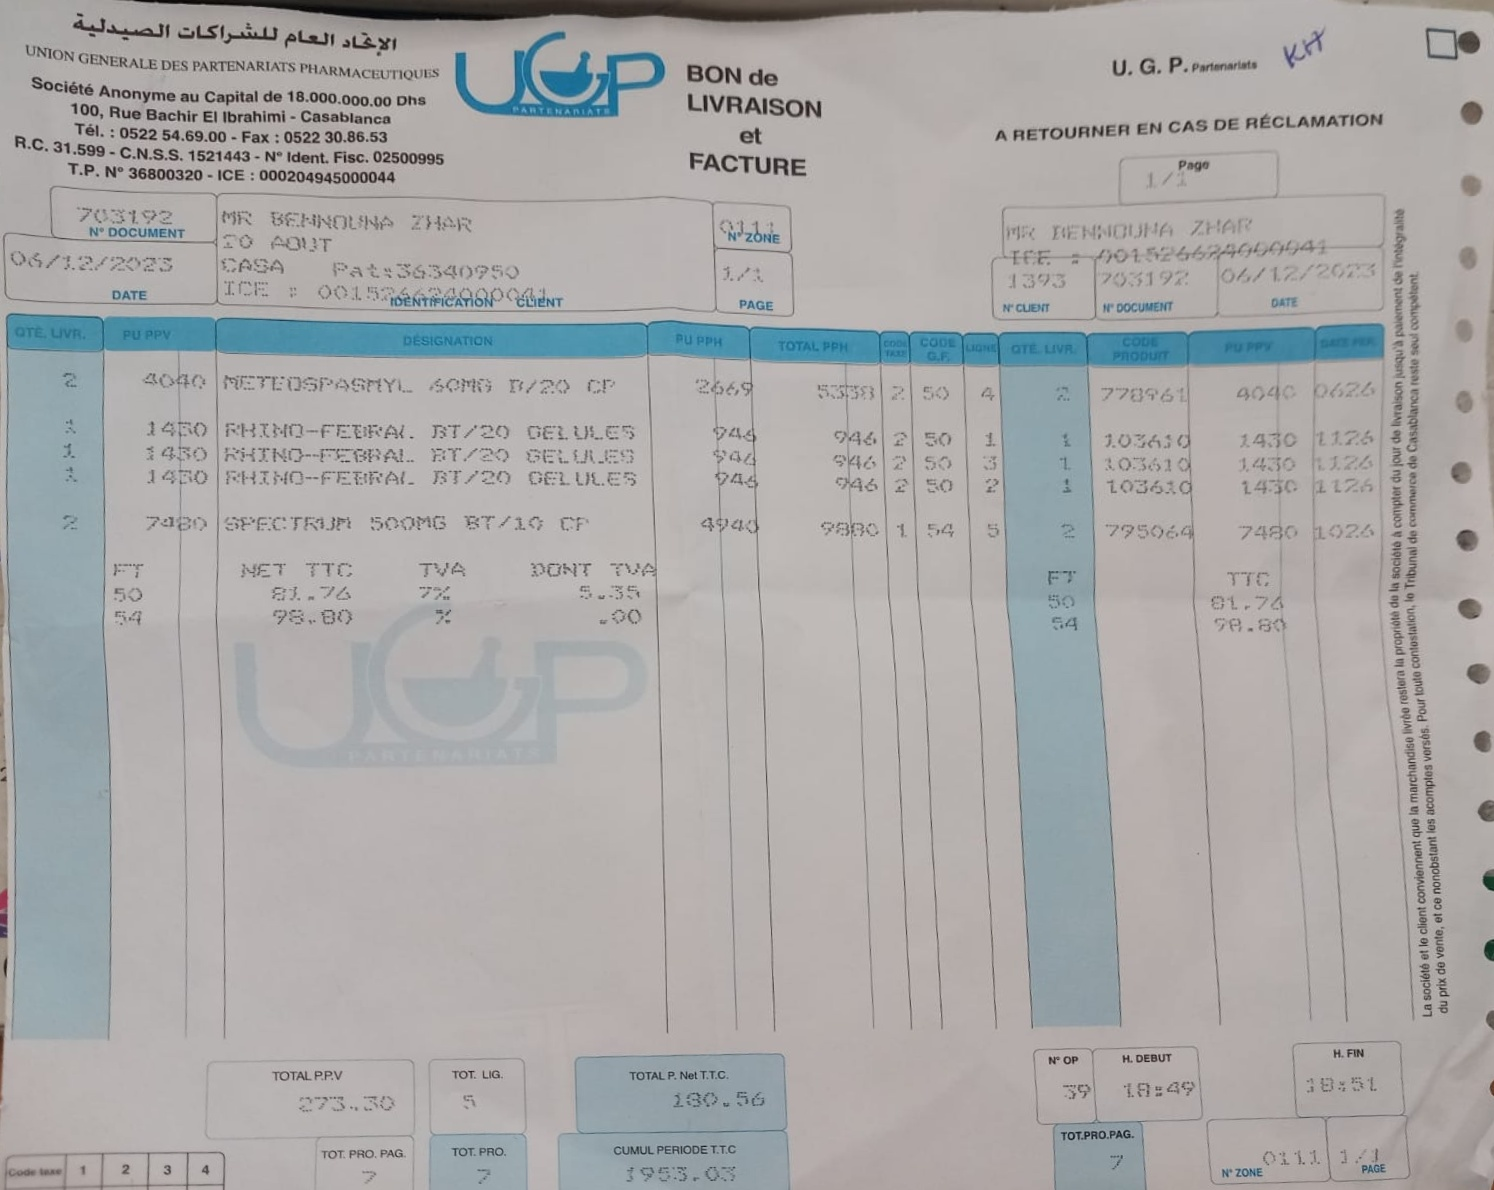
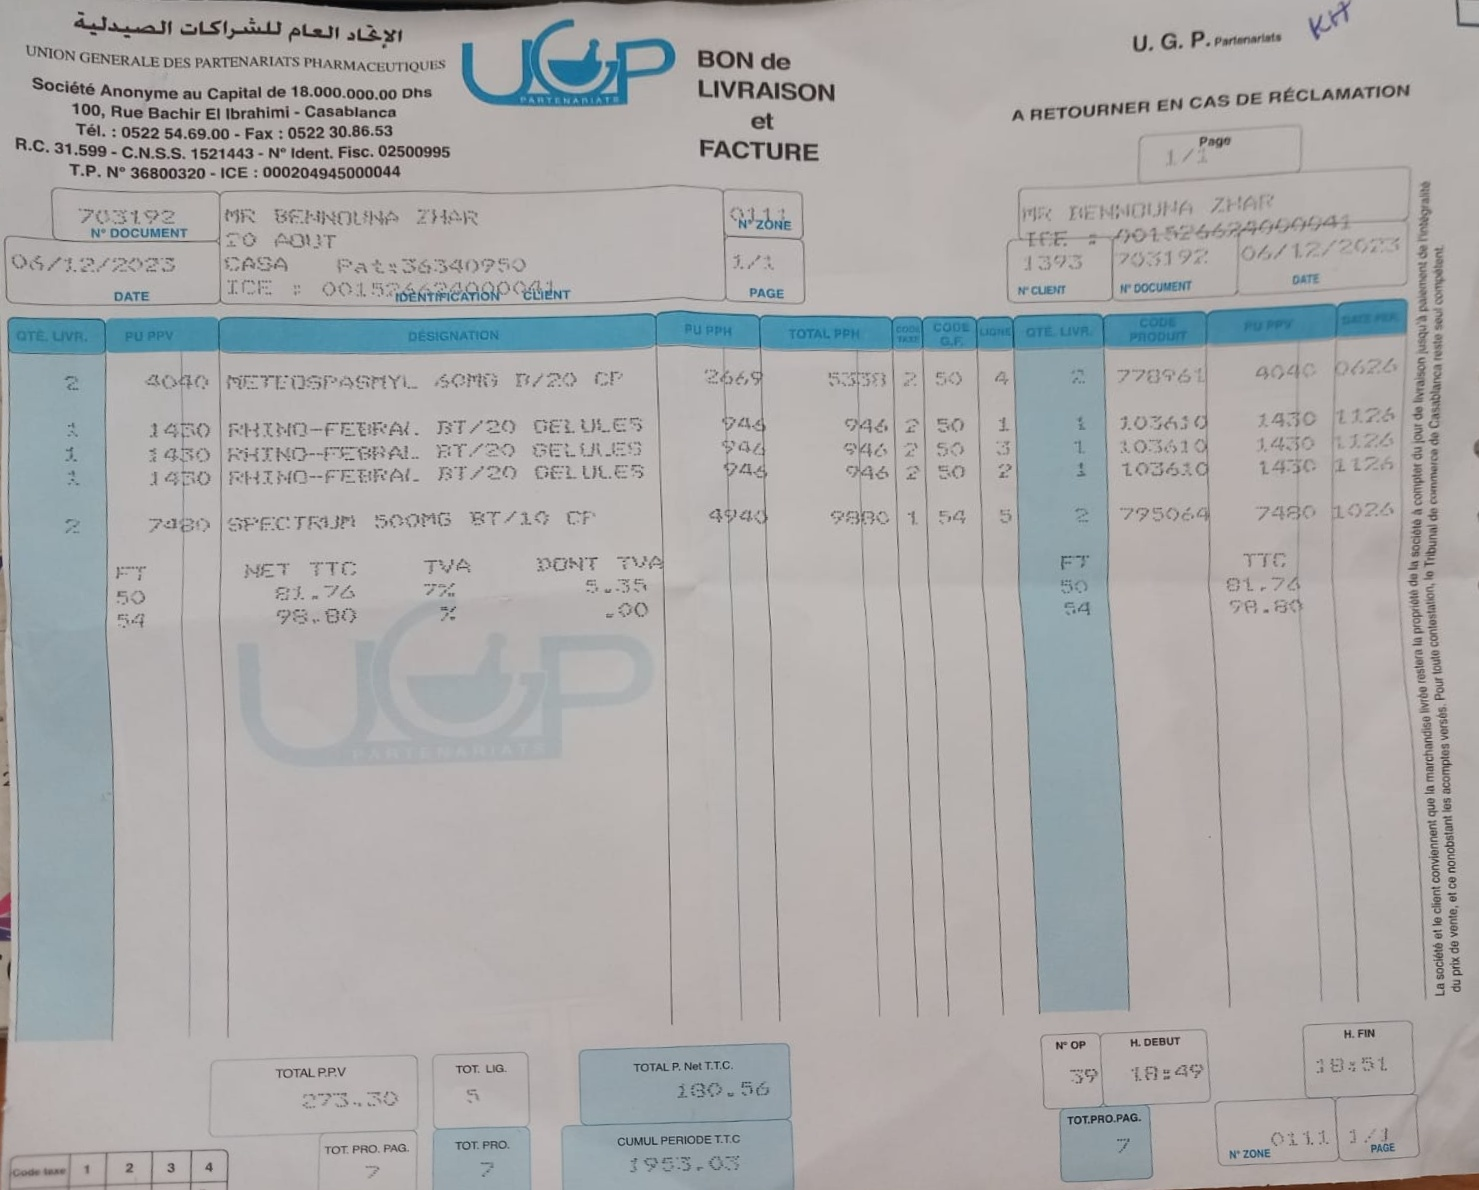
Add featurs of : that straightens the image (deskews it) - Calculate the rotation angle

diff --git a/scan.py b/scan.py
@@ -441,11 +441,14 @@ class DocScanner(object):
         cv2.imwrite(OUTPUT_DIR + '/' + basename, thresh)
 
         # Save the transformed image with original size
-        cv2.imwrite(OUTPUT_DIR + '/' + "cropped_" + basename, warped)
-        print("Proccessed " + basename)
+        cropped_path = OUTPUT_DIR + '/' + "cropped_" + basename
+        cv2.imwrite(cropped_path, warped)
+        print("Processed " + basename)
 
         # return the coordinates of the contour
         coordinates = screenCnt * ratio
+
+        self.deskew_image(cropped_path, coordinates)
         return coordinates.tolist()
 
     def deskew_image(self, image_path, coordinates):
@@ -453,7 +456,7 @@ class DocScanner(object):
         Deskew the image based on the provided coordinates.
         """
         image = cv2.imread(image_path)
-        assert (image is not None)
+        assert(image is not None)
 
         # Convert coordinates to integer
         coordinates = np.array(coordinates, dtype=np.int32)
@@ -479,8 +482,26 @@ class DocScanner(object):
         # Rotate the image to deskew it
         center = (image.shape[1] // 2, image.shape[0] // 2)
         rotation_matrix = cv2.getRotationMatrix2D(center, rotation_angle, 1.0)
-        deskewed_image = cv2.warpAffine(image, rotation_matrix, (image.shape[1], image.shape[0]),
-                                        flags=cv2.INTER_LINEAR)
+        deskewed_image = cv2.warpAffine(image, rotation_matrix, (image.shape[1], image.shape[0]), flags=cv2.INTER_LINEAR)
+
+        """ Fill tha part black in image with color white START """
+
+        # # Convert the image to grayscale
+        # gray = cv2.cvtColor(deskewed_image, cv2.COLOR_BGR2GRAY)
+        #
+        # # Create a mask where black pixels are marked
+        # _, mask = cv2.threshold(gray, 1, 255, cv2.THRESH_BINARY)
+        #
+        # # Invert the mask to get black areas
+        # mask = cv2.bitwise_not(mask)
+        #
+        # # Create a white image with the same dimensions as the deskewed image
+        # white_img = np.ones_like(deskewed_image, dtype=np.uint8) * 255
+        #
+        # # Use the mask to fill the black areas with white
+        # deskewed_image = cv2.bitwise_or(deskewed_image, white_img, mask=mask)
+
+        """ Fill tha part black in image with color white END """
 
         # Save the deskewed image
         OUTPUT_DIR = 'output'
@@ -515,16 +536,15 @@ if __name__ == "__main__":
     if im_file_path:
         coordinates = scanner.scan(im_file_path)
         print("Coordinates of the document corners:", coordinates)
-        # print("im_file_path:", im_file_path)
-        # scanner.crop_image(im_file_path, coordinates)
+        scanner.deskew_image(im_file_path, coordinates)
+
 
     # Scan all valid images in directory specified by command line argument --images <IMAGE_DIR>
     else:
         im_files = [f for f in os.listdir(im_dir) if get_ext(f) in valid_formats]
         for im in im_files:
             coordinates = scanner.scan(im_dir + '/' + im)
-            # print("Coordinates of the document corners for", im, ":", coordinates)
-            # scanner.crop_image(os.path.join(im_dir, im), coordinates)
+            scanner.deskew_image(im_dir + '/' + im, coordinates)
 
     # # # Scan Locally
     # interactive_mode = True

diff --git a/magic_pro_filter.py b/magic_pro_filter.py
@@ -89,6 +89,6 @@ def apply_magic_pro_filter(image_path, output_path, model):
 
 if __name__ == "__main__":
     # input_image_path = 'output/BL_scanned_1_1.jpg'  # cropped_model05.jpeg
-    input_image_path = 'output/cropped_model02.jpeg'  # cropped_model05.jpeg
+    input_image_path = 'output/cropped_model03.jpeg'  # cropped_model05.jpeg
     output_image_path = 'output/filtered_image.jpg'
-    apply_magic_pro_filter(input_image_path, output_image_path, 'COOPER')
+    apply_magic_pro_filter(input_image_path, output_image_path, 'SOPHADIMS')

diff --git a/constants.py b/constants.py
@@ -35,9 +35,9 @@ model_settings_magicpro_filter = {
     },
     'SOPHADIMS': {
         'gaussian_blur': (5, 5),
-        'clahe_clip_limit': 4.0,
-        'clahe_tile_grid_size': (45, 45),
-        'contrast_alpha': 1.6,
+        'clahe_clip_limit': 5.0,
+        'clahe_tile_grid_size': (40, 40),
+        'contrast_alpha': 1.5,
         'brightness_beta': 30,
         'adaptive_thresh_block_size': 11,
         'adaptive_thresh_C': 30,
